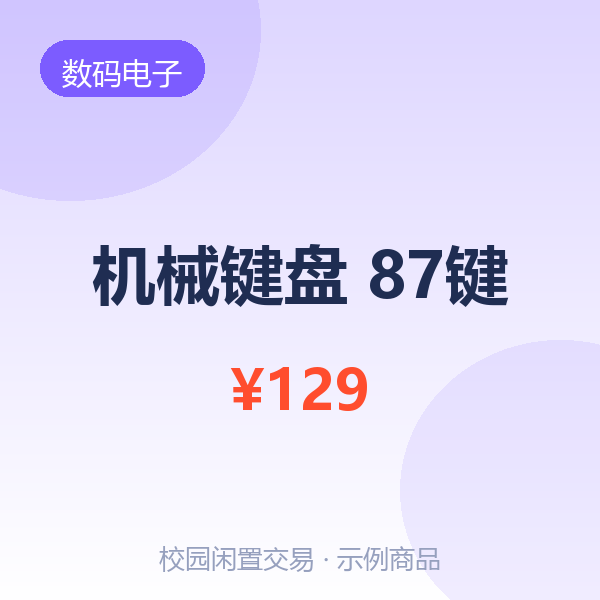
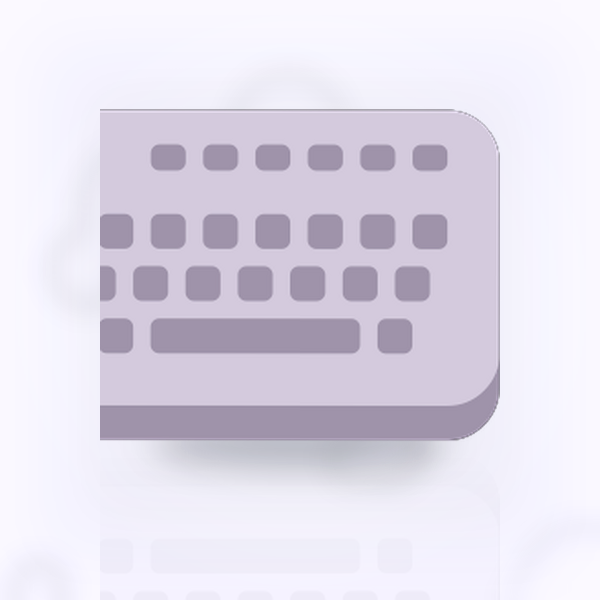
样式：示例商品图升级为影棚商品摄影风格
- gen-seed-images.py 重写：影棚浅色背景 + 景深光斑 + 落地柔影 + 玻璃倒影 + 轻微倾斜
- 商品主体大图居中，无文字覆盖（标题/价格由界面展示）
- 重新生成 server/uploads/seed/demo-01~21.png（同路径覆盖，刷新即可看到）

diff --git a/server/scripts/gen-seed-images.py b/server/scripts/gen-seed-images.py
@@ -1,123 +1,165 @@
 # -*- coding: utf-8 -*-
-"""生成 21 张商品示例图（7 分类 × 3 件），输出到 server/uploads/seed/"""
+"""生成 21 张"实物展示风格"商品图 v3（影棚商品摄影风格）
+- 影棚浅色背景 + 分类色调 + 景深光斑
+- 商品大图（emoji 彩色字形）轻微倾斜 + 落地柔影 + 玻璃倒影
+- 无文字覆盖（价格/标题由 App 界面展示）
+输出：server/uploads/seed/demo-01.png ~ demo-21.png（覆盖旧图）
+"""
 import os
-from PIL import Image, ImageDraw, ImageFont
+import math
+import random
+from PIL import Image, ImageDraw, ImageFont, ImageFilter
 
 BASE = r"C:\Users\31505\OneDrive\文档\deepseek-harness\default-workspace\campus-secondhand-trade\server\uploads\seed"
 os.makedirs(BASE, exist_ok=True)
 
-CATEGORY_COLORS = {
-    "教材书籍": (79, 116, 245),
-    "数码电子": (124, 92, 255),
-    "生活用品": (34, 181, 115),
-    "服饰鞋包": (255, 159, 67),
-    "运动户外": (231, 76, 60),
-    "美妆个护": (233, 30, 140),
-    "其他": (96, 125, 139),
+EMOJI_FONT = r"C:\Windows\Fonts\seguiemj.ttf"
+W = H = 600
+
+STYLE = {
+    "教材书籍": ((238, 244, 255), (79, 116, 245)),
+    "数码电子": ((243, 240, 255), (124, 92, 255)),
+    "生活用品": ((236, 250, 244), (34, 181, 115)),
+    "服饰鞋包": ((255, 246, 236), (255, 140, 40)),
+    "运动户外": ((255, 240, 237), (231, 76, 60)),
+    "美妆个护": ((255, 240, 248), (233, 30, 140)),
+    "其他": ((241, 245, 248), (96, 125, 139)),
 }
 
 ITEMS = [
-    ("教材书籍", "高等数学教材（同济版）", 15, 59, "九成新，笔记很少，适合大一"),
-    ("教材书籍", "大学英语四级词汇书", 12, 45, "重点词汇已划，几乎全新"),
-    ("教材书籍", "线性代数课本", 10, 39, "课后题未写，保存完好"),
-    ("数码电子", "蓝牙无线耳机", 89, 299, "续航不错，配件齐全"),
-    ("数码电子", "机械键盘 87键", 129, 399, "青轴手感好，送键帽"),
-    ("数码电子", "移动电源 20000mAh", 45, 129, "双口快充，容量足"),
-    ("生活用品", "宿舍小台灯", 19, 59, "三档调光，护眼不刺眼"),
-    ("生活用品", "保温杯 500ml", 25, 79, "保温 12 小时，内胆干净"),
-    ("生活用品", "大号收纳箱", 15, 49, "放床底刚好，盖子完整"),
-    ("服饰鞋包", "帆布双肩包", 35, 99, "容量大，可放 16 寸电脑"),
-    ("服饰鞋包", "运动卫衣 L码", 45, 159, "宽松版型，洗过两次"),
-    ("服饰鞋包", "小白鞋 39码", 59, 199, "只穿过两次，无明显磨损"),
-    ("运动户外", "羽毛球拍（双拍）", 39, 129, "轻量拍，送球一筒"),
-    ("运动户外", "瑜伽垫", 25, 69, "加厚防滑，附收纳带"),
-    ("运动户外", "篮球 7号", 49, 149, "室内外两用，弹性好"),
-    ("美妆个护", "护肤品小样套装", 29, 99, "未拆封，日期新鲜"),
-    ("美妆个护", "带灯化妆镜", 35, 89, "三色调光，桌面摆放"),
-    ("美妆个护", "洗发水 400ml", 19, 59, "全新未开封"),
-    ("其他", "多肉盆栽", 9, 25, "小盆栽，好养活"),
-    ("其他", "手写笔记本", 6, 18, "空白页，硬壳封面"),
-    ("其他", "卡通抱枕", 15, 45, "柔软不塌陷，干净无污渍"),
+    ("教材书籍", "高等数学教材（同济版）", "📚"),
+    ("教材书籍", "大学英语四级词汇书", "📖"),
+    ("教材书籍", "线性代数课本", "📘"),
+    ("数码电子", "蓝牙无线耳机", "🎧"),
+    ("数码电子", "机械键盘 87键", "⌨"),
+    ("数码电子", "移动电源 20000mAh", "🔋"),
+    ("生活用品", "宿舍小台灯", "💡"),
+    ("生活用品", "保温杯 500ml", "☕"),
+    ("生活用品", "大号收纳箱", "📦"),
+    ("服饰鞋包", "帆布双肩包", "🎒"),
+    ("服饰鞋包", "运动卫衣 L码", "🧥"),
+    ("服饰鞋包", "小白鞋 39码", "👟"),
+    ("运动户外", "羽毛球拍（双拍）", "🏸"),
+    ("运动户外", "瑜伽垫", "🧘"),
+    ("运动户外", "篮球 7号", "🏀"),
+    ("美妆个护", "护肤品小样套装", "🧴"),
+    ("美妆个护", "带灯化妆镜", "🪞"),
+    ("美妆个护", "洗发水 400ml", "🧼"),
+    ("其他", "多肉盆栽", "🌵"),
+    ("其他", "手写笔记本", "📓"),
+    ("其他", "卡通抱枕", "🧸"),
 ]
-
-FONT_BD = r"C:\Windows\Fonts\msyhbd.ttc"
-FONT_RG = r"C:\Windows\Fonts\msyh.ttc"
-
-
-def font(path, size):
-    return ImageFont.truetype(path, size)
 
 
 def lerp(c1, c2, t):
     return tuple(int(c1[i] + (c2[i] - c1[i]) * t) for i in range(3))
 
 
-def wrap_text(draw, text, fnt, max_width):
-    lines, cur = [], ""
-    for ch in text:
-        trial = cur + ch
-        if draw.textlength(trial, font=fnt) <= max_width:
-            cur = trial
-        else:
-            if cur:
-                lines.append(cur)
-            cur = ch
-    if cur:
-        lines.append(cur)
-    return lines
+def studio_bg(base_rgb, rng):
+    """影棚背景：中心亮 + 分类色晕染 + 光斑 + 暗角"""
+    img = Image.new("RGB", (W, H), (255, 255, 255))
+    px = img.load()
+    for y in range(H):
+        for x in range(0, W, 2):
+            dx = (x - W / 2) / (W / 2)
+            dy = (y - H / 2) / (H / 2)
+            d = min(1.0, math.sqrt(dx * dx + dy * dy))
+            t = d * 0.75
+            color = lerp((253, 254, 255), base_rgb, t)
+            px[x, y] = color
+            if x + 1 < W:
+                px[x + 1, y] = color
+
+    # 景深光斑
+    bokeh = Image.new("RGBA", (W, H), (0, 0, 0, 0))
+    bd = ImageDraw.Draw(bokeh)
+    for _ in range(10):
+        r = rng.randint(18, 70)
+        cx = rng.randint(0, W)
+        cy = rng.randint(0, H)
+        alpha = rng.randint(18, 46)
+        bd.ellipse([cx - r, cy - r, cx + r, cy + r], fill=base_rgb + (alpha,))
+    bokeh = bokeh.filter(ImageFilter.GaussianBlur(14))
+    img = Image.alpha_composite(img.convert("RGBA"), bokeh)
+
+    # 暗角
+    vig = Image.new("L", (W, H), 0)
+    vd = ImageDraw.Draw(vig)
+    for i in range(60):
+        vd.rectangle([i * 3, i * 3, W - i * 3, H - i * 3], outline=int(i * 2.2))
+    vig = vig.filter(ImageFilter.GaussianBlur(30))
+    dark = Image.new("RGBA", (W, H), (8, 12, 30, 255))
+    dark.putalpha(vig.point(lambda v: int(v * 0.55)))
+    img = Image.alpha_composite(img, dark)
+    return img
 
 
-for idx, (cat, name, price, orig, desc) in enumerate(ITEMS, 1):
-    color = CATEGORY_COLORS[cat]
-    w = h = 600
-    img = Image.new("RGB", (w, h), (255, 255, 255))
-    draw = ImageDraw.Draw(img)
+def render_emoji(emoji, size):
+    canvas = Image.new("RGBA", (size * 2, size * 2), (0, 0, 0, 0))
+    d = ImageDraw.Draw(canvas)
+    font = ImageFont.truetype(EMOJI_FONT, size)
+    bbox = d.textbbox((0, 0), emoji, font=font, embedded_color=True)
+    tw = bbox[2] - bbox[0]
+    th = bbox[3] - bbox[1]
+    d.text(((size * 2 - tw) / 2 - bbox[0], (size * 2 - th) / 2 - bbox[1]),
+           emoji, font=font, embedded_color=True)
+    glyph = canvas.crop(canvas.getbbox())
+    max_side = 400
+    scale = max_side / max(glyph.width, glyph.height)
+    glyph = glyph.resize((max(1, int(glyph.width * scale)), max(1, int(glyph.height * scale))), Image.LANCZOS)
+    return glyph
 
-    # 垂直渐变背景（浅色）
-    for y in range(h):
-        t = y / h
-        draw.line([(0, y), (w, y)], fill=lerp(lerp(color, (255, 255, 255), 0.75), (255, 255, 255), t))
 
-    # 顶部装饰圆
-    overlay = Image.new("RGBA", (w, h), (0, 0, 0, 0))
-    od = ImageDraw.Draw(overlay)
-    od.ellipse([-120, -140, 260, 200], fill=color + (36,))
-    od.ellipse([w - 200, h - 260, w + 120, h + 40], fill=color + (28,))
-    img = Image.alpha_composite(img.convert("RGBA"), overlay).convert("RGB")
-    draw = ImageDraw.Draw(img)
+def fade_reflection(glyph):
+    """生成倒影：翻转 + 由深到浅的渐隐"""
+    refl = glyph.transpose(Image.FLIP_TOP_BOTTOM).copy()
+    alpha = refl.split()[3]
+    grad = Image.linear_gradient("L").resize((refl.width, refl.height))
+    grad = grad.point(lambda v: int(v * 0.30))
+    alpha = Image.composite(alpha, Image.new("L", alpha.size, 0), grad)
+    refl.putalpha(alpha)
+    return refl
 
-    # 分类标签
-    chip_font = font(FONT_RG, 30)
-    tw = draw.textlength(cat, font=chip_font)
-    draw.rounded_rectangle([40, 40, 40 + tw + 44, 40 + 56], radius=28, fill=color)
-    draw.text((62, 52), cat, font=chip_font, fill=(255, 255, 255))
 
-    # 中央商品名（自动换行 + 自适应字号）
-    fnt = font(FONT_BD, 64)
-    lines = wrap_text(draw, name, fnt, 480)
-    if len(lines) > 2:
-        fnt = font(FONT_BD, 52)
-        lines = wrap_text(draw, name, fnt, 500)
-    line_h = fnt.getbbox("字")[3] - fnt.getbbox("字")[1] + 18
-    total_h = line_h * len(lines)
-    start_y = (h - total_h) // 2 - 30
-    for i, line in enumerate(lines):
-        lw = draw.textlength(line, font=fnt)
-        draw.text(((w - lw) / 2, start_y + i * line_h), line, font=fnt, fill=(31, 45, 82))
+for idx, (cat, name, emoji) in enumerate(ITEMS, 1):
+    base_rgb, _accent = STYLE[cat]
+    rng = random.Random(idx * 7919)
+    img = studio_bg(base_rgb, rng)
 
-    # 价格
-    price_font = font(FONT_BD, 56)
-    price_text = f"¥{price}"
-    pw = draw.textlength(price_text, font=price_font)
-    draw.text(((w - pw) / 2, start_y + total_h + 40), price_text, font=price_font, fill=(255, 77, 46))
+    glyph = render_emoji(emoji, 300)
+    # 轻微倾斜，更自然
+    angle = rng.uniform(-4.0, 4.0)
+    glyph = glyph.rotate(angle, expand=True, resample=Image.BICUBIC)
 
-    # 底部水印
-    mark = font(FONT_RG, 26)
-    mt = "校园闲置交易 · 示例商品"
-    mw = draw.textlength(mt, font=mark)
-    draw.text(((w - mw) / 2, h - 60), mt, font=mark, fill=(150, 160, 190))
+    gx = (W - glyph.width) // 2
+    gy = (H - glyph.height) // 2 - 24
+
+    # 落地柔影
+    shadow = Image.new("RGBA", (W, H), (0, 0, 0, 0))
+    sd = ImageDraw.Draw(shadow)
+    sw = int(glyph.width * 0.72)
+    sh = int(glyph.height * 0.14)
+    sd.ellipse(
+        [gx + (glyph.width - sw) // 2, gy + glyph.height - sh // 2,
+         gx + (glyph.width + sw) // 2, gy + glyph.height + sh // 2],
+        fill=(10, 20, 40, 70),
+    )
+    shadow = shadow.filter(ImageFilter.GaussianBlur(16))
+    img = Image.alpha_composite(img, shadow)
+
+    # 玻璃倒影
+    refl = fade_reflection(glyph)
+    refl_y = gy + glyph.height + 6
+    if refl_y < H:
+        img.alpha_composite(refl, (gx, refl_y))
+
+    # 贴商品主体
+    img.alpha_composite(glyph, (gx, gy))
+
+    # 轻微色彩校正（提亮 + 微对比）
+    img = Image.eval(img.convert("RGB"), lambda v: min(255, int(v * 1.02 + 3)))
 
     out = os.path.join(BASE, f"demo-{idx:02d}.png")
-    img.save(out, "PNG", optimize=True)
+    img.convert("RGB").save(out, "PNG", optimize=True)
 
-print(f"生成完成：{len(ITEMS)} 张 -> {BASE}")
+print(f"生成完成：{len(ITEMS)} 张（影棚实物风格）-> {BASE}")
